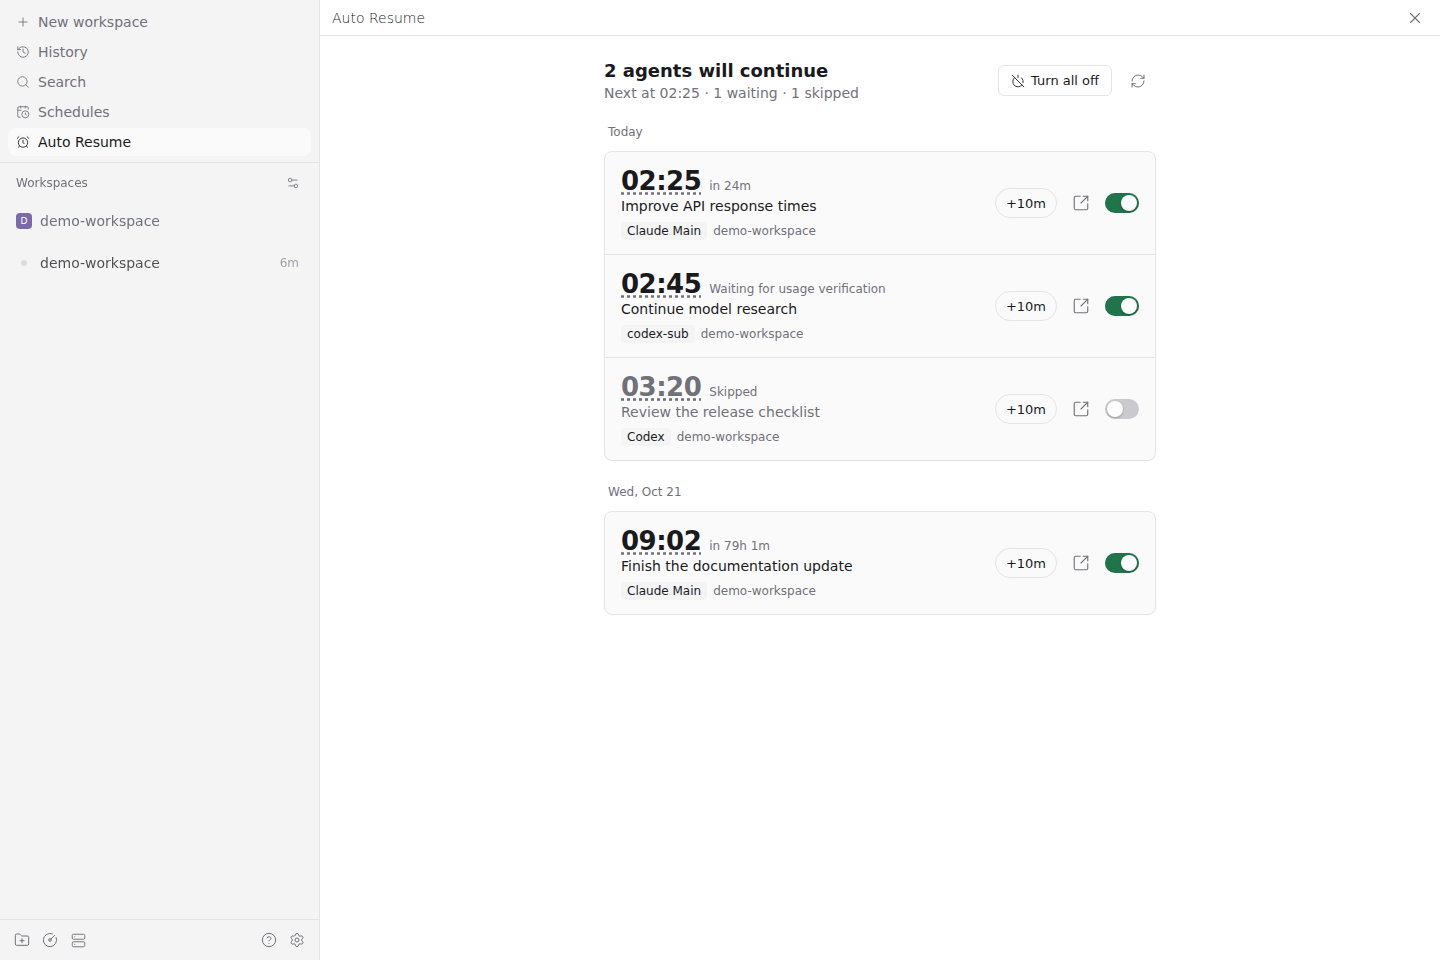
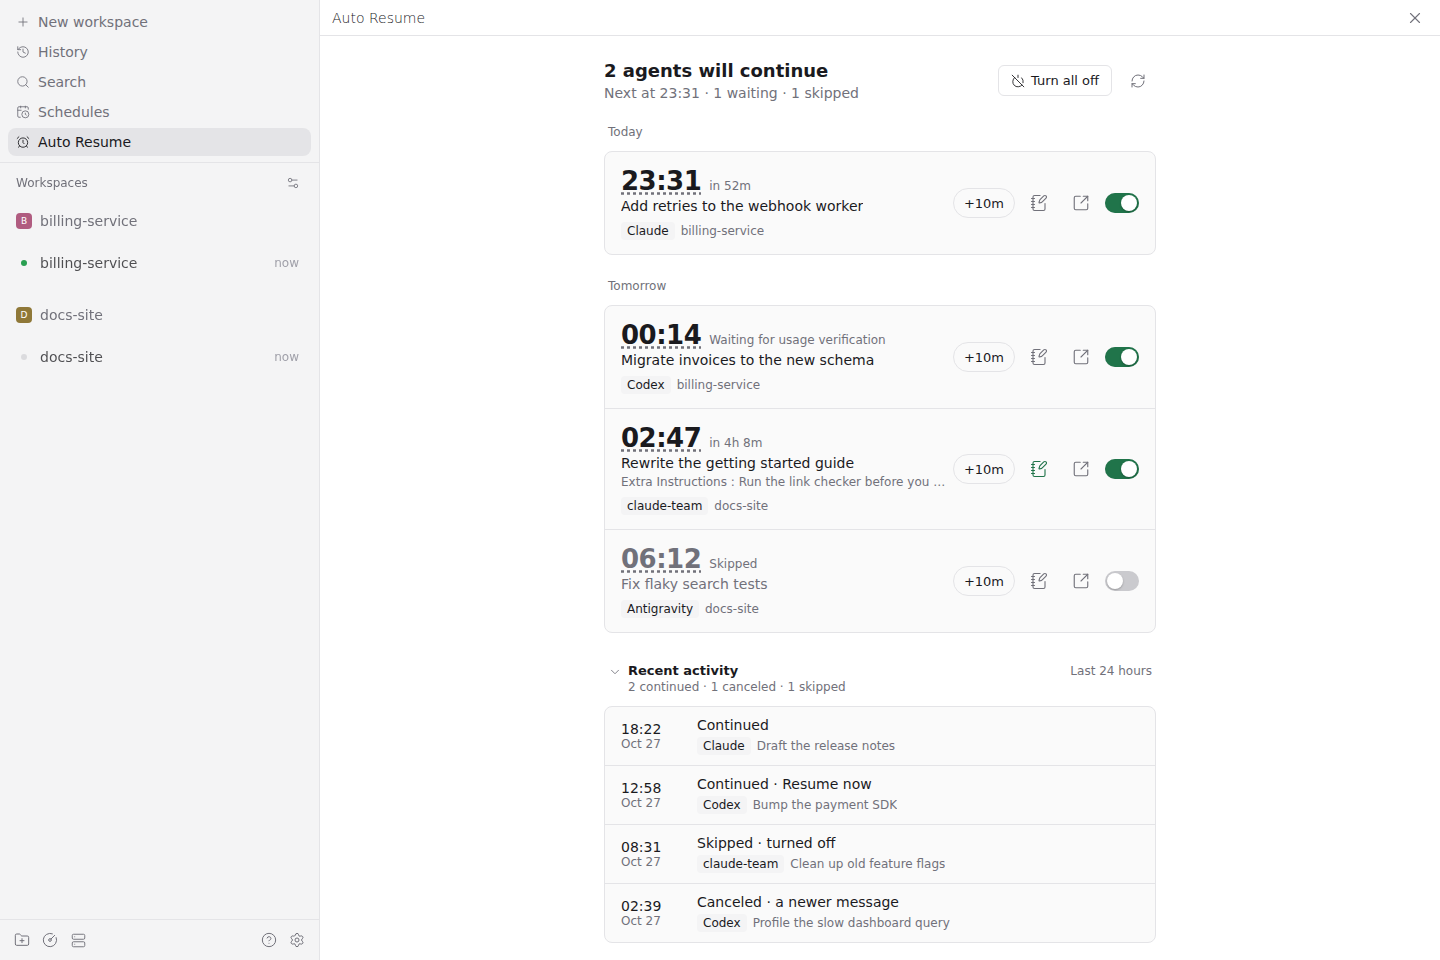
docs: refresh the screenshots and add the composer panel
The list now shows extra instructions and recent activity, and the
settings screen the continue prompt. A third image shows the Auto Resume
panel in a conversation stopped at its limit. All three come from Paseo
0.13.2 with demo workspaces and accounts; the provenance is in
assets/README.md.

diff --git a/assets/README.md b/assets/README.md
@@ -1,10 +1,11 @@
 # Screenshot provenance
 
-Captured from the real Paseo 0.11.4 bundled web app and the Usage Auto Resume plugin, using Chromium through Playwright at a 1440 × 960 desktop viewport.
+Captured on October 27, 2026 from the real Paseo 0.13.2 bundled web app and the Usage Auto Resume plugin at v1.3.0, using Chromium through Playwright at a 1440 × 960 desktop viewport. They come from an isolated daemon with two demo workspaces, `billing-service` and `docs-site`.
 
-- `auto-resume.png` was recaptured on October 18, 2026 and shows four sample reservations in an isolated daemon and demo workspace. Scheduled, skipped and waiting-for-usage-verification states, countdowns, day grouping, row controls (+10m and open), and the bulk toggle are rendered by the current plugin. Reservations were seeded as demo data; they are not records of real provider-limit failures. The demo agents received no task prompts. CLI logins were isolated from the user's accounts and providers were disabled in Paseo.
-- `provider-settings.png` shows the real settings screen with every provider on. It was recaptured on October 16, 2026 from the Paseo 0.11.4 bundled web app at the same viewport, in an isolated daemon with no agents. Its providers `claude-main`, `claude-sub`, `codex-sub` and `codex-reserve` and their `example.com` accounts are demo configuration.
+- `auto-resume.png` shows four reservations and the expanded recent activity. The states shown are scheduled, waiting for usage verification, with extra instructions, and skipped, grouped by day.
+  - The first reservation was made by the plugin itself when the agent's Claude Code stopped at its limit.
+  - The other three and the recent activity entries were seeded as demo data.
+- `composer.png` shows that first conversation with its **Auto Resume** panel open. The limit notice is the one Claude Code itself wrote.
+- `settings.png` shows the plugin settings, scrolled to show both the providers and the continue prompt. The providers `claude`, `claude-team`, `codex` and `antigravity` and their `example.com` accounts are demo configuration.
 
-No production conversation content, account emails or credentials are included. The screenshots are direct browser captures; the displayed interface was not retouched.
-
-The October 18 auto-resume capture checked scheduled, skipped and usage-verification waiting states, toggled a skipped reservation on and back off, and reported no browser errors. Earlier browser checks on the demo host covered reservation toggles, upgrading from the one-ID-per-CLI settings, turning providers off and back on with cancellation of their reservations, unreadable settings and their reset.
+The only model request was the demo conversation's turn. It went to a local stand-in for the Anthropic API, which answered with a usage-limit error. No real account was used, and the CLIs' other outbound connections were refused. The plugin's account and usage check was replaced by a fixed "available" answer. No production conversation content, account emails or credentials are included. The screenshots are direct browser captures, and the displayed interface was not retouched. The browser reported no errors.

diff --git a/README.ko.md b/README.ko.md
@@ -6,9 +6,9 @@
 
 [English](README.md)
 
-![날짜별 자동 재개 예약과 시각, 스위치, 대화 열기 버튼](assets/auto-resume.png)
+![날짜별 자동 재개 예약과 추가 지시, 스위치, 최근 활동](assets/auto-resume.png)
 
-샘플 예약을 사용한 실제 Paseo 웹 화면입니다. 재개 예정인 작업과 확인 대기 중인 작업을 함께 볼 수 있습니다.
+샘플 예약을 사용한 실제 Paseo 웹 화면입니다. 재개 예정인 작업과 확인 대기 중인 작업, 그리고 최근 재개가 어떻게 끝났는지 함께 볼 수 있습니다.
 
 - **같은 대화에서 이어서.** 지원하는 에이전트가 사용 한도로 멈추면 재개가 자동으로 예약됩니다.
 - **다음 일정을 한눈에.** 여러 provider와 작업공간의 재개 일정을 모아 봅니다. 데몬이나 플러그인을 재시작해도 예약은 유지됩니다.
@@ -52,13 +52,15 @@ paseo plugin install github:babo-jeonguk/paseo-usage-auto-resume
 
 예약이 있는 대화에는 메시지 입력창 옆에 **Auto Resume** 버튼도 나타납니다. 대화를 떠나지 않고 그 예약을 관리할 수 있고, 한도가 일찍 풀렸다면 **Resume now**로 바로 재개할 수 있습니다.
 
+![한도로 멈춘 대화의 Auto Resume 패널: 미루기 버튼, 추가 지시, Resume now](assets/composer.png)
+
 예약이 확인 대기 중이라고 나오면, 아직 계정이나 사용량을 확인하지 못했다는 뜻입니다. 표시된 시각에 다시 확인합니다.
 
 ## 설정
 
 **Settings → Plugins → usage-auto-resume → Settings**를 여세요.
 
-![계정 표시와 provider별 스위치가 있는 설정 화면](assets/provider-settings.png)
+![provider별 스위치와 계정, Continue prompt가 있는 설정 화면](assets/settings.png)
 
 - **Providers:** provider별로 자동 재개를 켜거나 끕니다. `claude-main`, `codex-sub` 같은 프로필도 포함됩니다. 끄면 그 provider의 대기 중인 예약이 취소됩니다.
 - **Continue prompt:** 에이전트에게 보내는 메시지를 확인하고 바꿀 수 있습니다. **Reset to default**를 누르면 하위 에이전트까지 이어서 진행하도록 요청하는 기본 메시지로 돌아갑니다.

diff --git a/README.md b/README.md
@@ -6,9 +6,9 @@ A [Paseo](https://paseo.sh) plugin that automatically asks the same Codex, Claud
 
 [한국어](README.ko.md)
 
-![Automatic resume reservations grouped by day, with times, switches and conversation links](assets/auto-resume.png)
+![Automatic resume reservations grouped by day, with extra instructions, switches and recent activity](assets/auto-resume.png)
 
-Actual Paseo web interface with sample reservations. Each row shows what is scheduled to continue or waiting for verification.
+Actual Paseo web interface with sample reservations. Each row shows what is scheduled to continue or waiting for verification, and recent activity shows how earlier resumes ended.
 
 - **Pick up in the same conversation.** When a supported agent stops at a usage limit, a resume is scheduled for you.
 - **See what comes next.** Check upcoming resumes across providers and workspaces. Reservations survive daemon and plugin restarts.
@@ -52,13 +52,15 @@ The header switch turns every shown resume off or on together. **Recent activity
 
 A conversation with a resume also shows an **Auto Resume** button next to the message box. Use it to manage that resume without leaving the conversation, or select **Resume now** if the limit lifted early.
 
+![The Auto Resume panel in a conversation stopped at its limit, with delay buttons, extra instructions and Resume now](assets/composer.png)
+
 A resume waiting for verification means the plugin couldn't confirm your account or usage yet; it checks again at the time shown.
 
 ## Settings
 
 Open **Settings → Plugins → usage-auto-resume → Settings**.
 
-![Provider settings with account labels and individual switches](assets/provider-settings.png)
+![Settings with a switch and account for each provider, and the continue prompt](assets/settings.png)
 
 - **Providers:** turn resumes on or off for each provider, including profiles such as `claude-main` or `codex-sub`. Turning one off cancels its pending resumes.
 - **Continue prompt:** see the message sent to the agent and replace it. **Reset to default** brings back the built-in one, which also asks the agent to resume its unfinished subagents.
